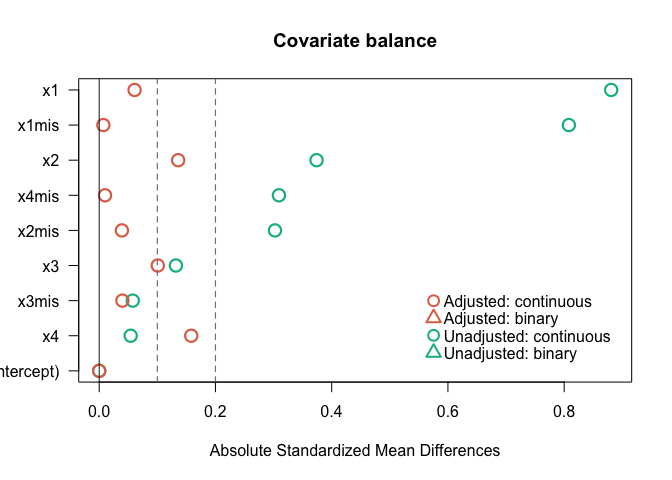
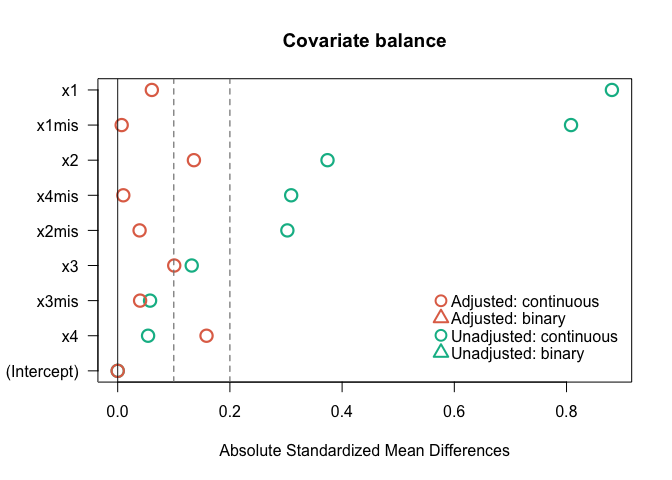
Improve the algorithm

diff --git a/README.md b/README.md
@@ -725,61 +725,61 @@ summary(fitdbwmr)
 #> ############################################################
 #> ATE estimate:
 #>     Estimate Std. Error z value Pr(>|z|)    
-#> ATE    6.912     0.8254   8.374        0 ***
+#> ATE    6.924     0.8382    8.26 2.22e-16 ***
 #> ---
 #> Signif. codes:  0 '***' 0.001 '**' 0.01 '*' 0.05 '.' 0.1 ' ' 1 
 #> ############################################################
 #> 
 #> Estimate of E[Y(1)] and E[Y(0)]:
 #>      Estimate Std. Error z value Pr(>|z|)    
-#> mu_t    218.4      1.263   172.9        0 ***
-#> mu_c    211.5      1.226   172.5        0 ***
+#> mu_t    218.4      1.266   172.5        0 ***
+#> mu_c    211.5      1.271   166.4        0 ***
 #> ---
 #> Signif. codes:  0 '***' 0.001 '**' 0.01 '*' 0.05 '.' 0.1 ' ' 1 
 #> 
 #> Coefficients for the propensity score model estimation for estimating E[Y(1)]:
 #>                  Estimate Std. Error z value  Pr(>|z|)    
-#> ps_t_(Intercept) -0.21462    0.07772 -2.7616 5.753e-03  **
-#> ps_t_x1mis       -0.88024    0.14021 -6.2781 3.428e-10 ***
-#> ps_t_x2mis        0.19113    0.09894  1.9319 5.337e-02   .
-#> ps_t_x3mis       -0.02532    0.12606 -0.2009 8.408e-01    
-#> ps_t_x4mis        0.29439    0.15984  1.8418 6.551e-02   .
+#> ps_t_(Intercept)  -0.2467    0.07443 -3.3148 9.171e-04 ***
+#> ps_t_x1mis        -0.8770    0.13832 -6.3402 2.294e-10 ***
+#> ps_t_x2mis         0.1906    0.09606  1.9839 4.726e-02   *
+#> ps_t_x3mis        -0.0254    0.12319 -0.2062 8.367e-01    
+#> ps_t_x4mis         0.2921    0.15354  1.9024 5.712e-02   .
 #> ---
 #> Signif. codes:  0 '***' 0.001 '**' 0.01 '*' 0.05 '.' 0.1 ' ' 1 
 #> 
 #> Coefficients for the propensity score model estimation for estimating E[Y(0)]:
-#>                   Estimate Std. Error  z value  Pr(>|z|)    
-#> ps_c_(Intercept) -0.280880     0.1508 -1.86306 6.245e-02   .
-#> ps_c_x1mis       -1.550856     0.2443 -6.34699 2.196e-10 ***
-#> ps_c_x2mis       -0.005312     0.1611 -0.03298 9.737e-01    
-#> ps_c_x3mis        0.519468     0.2610  1.99044 4.654e-02   *
-#> ps_c_x4mis        0.383983     0.1620  2.36976 1.780e-02   *
+#>                  Estimate Std. Error  z value  Pr(>|z|)    
+#> ps_c_(Intercept) -0.35981     0.1884 -1.91018 5.611e-02   .
+#> ps_c_x1mis       -1.56758     0.2805 -5.58798 2.297e-08 ***
+#> ps_c_x2mis       -0.01004     0.1845 -0.05443 9.566e-01    
+#> ps_c_x3mis        0.52870     0.2873  1.84018 6.574e-02   .
+#> ps_c_x4mis        0.39297     0.1858  2.11459 3.446e-02   *
 #> ---
 #> Signif. codes:  0 '***' 0.001 '**' 0.01 '*' 0.05 '.' 0.1 ' ' 1 
 #> 
 #> Coefficients for the outcome model estimation for estimating E[Y(1)]:
-#>                       Estimate Std. Error z value  Pr(>|z|)    
-#> outcome_t_(Intercept)  218.422     0.7331 297.944 0.0000000 ***
-#> outcome_t_x1mis         26.279     0.7290  36.047 0.0000000 ***
-#> outcome_t_x2mis          2.312     0.8359   2.766 0.0056792  **
-#> outcome_t_x3mis         -4.142     1.2200  -3.395 0.0006867 ***
-#> outcome_t_x4mis         18.086     1.1617  15.568 0.0000000 ***
+#>                       Estimate Std. Error z value Pr(>|z|)    
+#> outcome_t_(Intercept)  218.429     0.7348 297.271 0.000000 ***
+#> outcome_t_x1mis         26.260     0.7236  36.291 0.000000 ***
+#> outcome_t_x2mis          2.319     0.8374   2.770 0.005608  **
+#> outcome_t_x3mis         -4.106     1.2229  -3.357 0.000787 ***
+#> outcome_t_x4mis         18.087     1.1634  15.546 0.000000 ***
 #> ---
 #> Signif. codes:  0 '***' 0.001 '**' 0.01 '*' 0.05 '.' 0.1 ' ' 1 
 #> 
 #> Coefficients for the outcome model estimation for estimating E[Y(0)]:
 #>                       Estimate Std. Error z value  Pr(>|z|)    
-#> outcome_c_(Intercept)  211.510     0.6818 310.203 0.0000000 ***
-#> outcome_c_x1mis         25.975     1.1052  23.503 0.0000000 ***
-#> outcome_c_x2mis         -3.901     1.0578  -3.688 0.0002259 ***
-#> outcome_c_x3mis          3.608     1.5212   2.372 0.0176901   *
-#> outcome_c_x4mis         21.970     0.9786  22.450 0.0000000 ***
+#> outcome_c_(Intercept)  211.505     0.7457 283.622 0.0000000 ***
+#> outcome_c_x1mis         25.823     1.1242  22.969 0.0000000 ***
+#> outcome_c_x2mis         -3.899     1.0598  -3.679 0.0002341 ***
+#> outcome_c_x3mis          3.721     1.5223   2.444 0.0145149   *
+#> outcome_c_x4mis         21.946     0.9753  22.502 0.0000000 ***
 #> ---
 #> Signif. codes:  0 '***' 0.001 '**' 0.01 '*' 0.05 '.' 0.1 ' ' 1 
 #> 
 #> Effective sample size for the ATE estimation:
-#>   For estimating E[Y(1)]: 303.11 
-#>   For estimating E[Y(0)]:   361.95
+#>   For estimating E[Y(1)]: 301.7 
+#>   For estimating E[Y(0)]:   366.39
 
 # Covariate balancing weighting function with an estimating equation 
 #  for the original covariate balancing propensity score method
@@ -1101,12 +1101,16 @@ summary(fitmlem_hj)
 
 ``` r
 # Distribution balancing weighting without regularization
+oldpar <- par(no.readonly = TRUE) # Just for adjusting plot margins
+par(mar = c(5.1, 5.1, 4.1, 2.1)) # Just for adjusting plot margins
 plot(fitdbwm, addcov = ~ x1 + x2 + x3 + x4, threshold = c(0.1, 0.2))
 ```
 
 <img src="man/figures/README-covariate balance-1.png" width="100%" />
 
 ``` r
+par(oldpar)
+
 # Display the covariate balance matrix
 cb <- plot(fitdbwm, addcov = ~ x1 + x2 + x3 + x4, plot = FALSE)
 cb

diff --git a/NEWS.md b/NEWS.md
@@ -1,3 +1,7 @@
+# dbw 0.4.0
+### Minor changes
+* Slightly change the internal calculation of eta when lambda > 0.
+
 # dbw 0.3.0
 ### Minor changes
 * Add "std_comp()" function, which generates a complete-case data frame with standardized covariates for propensity score estimation. This function is meant to be used before dbw() with regularization (lambda > 0).
